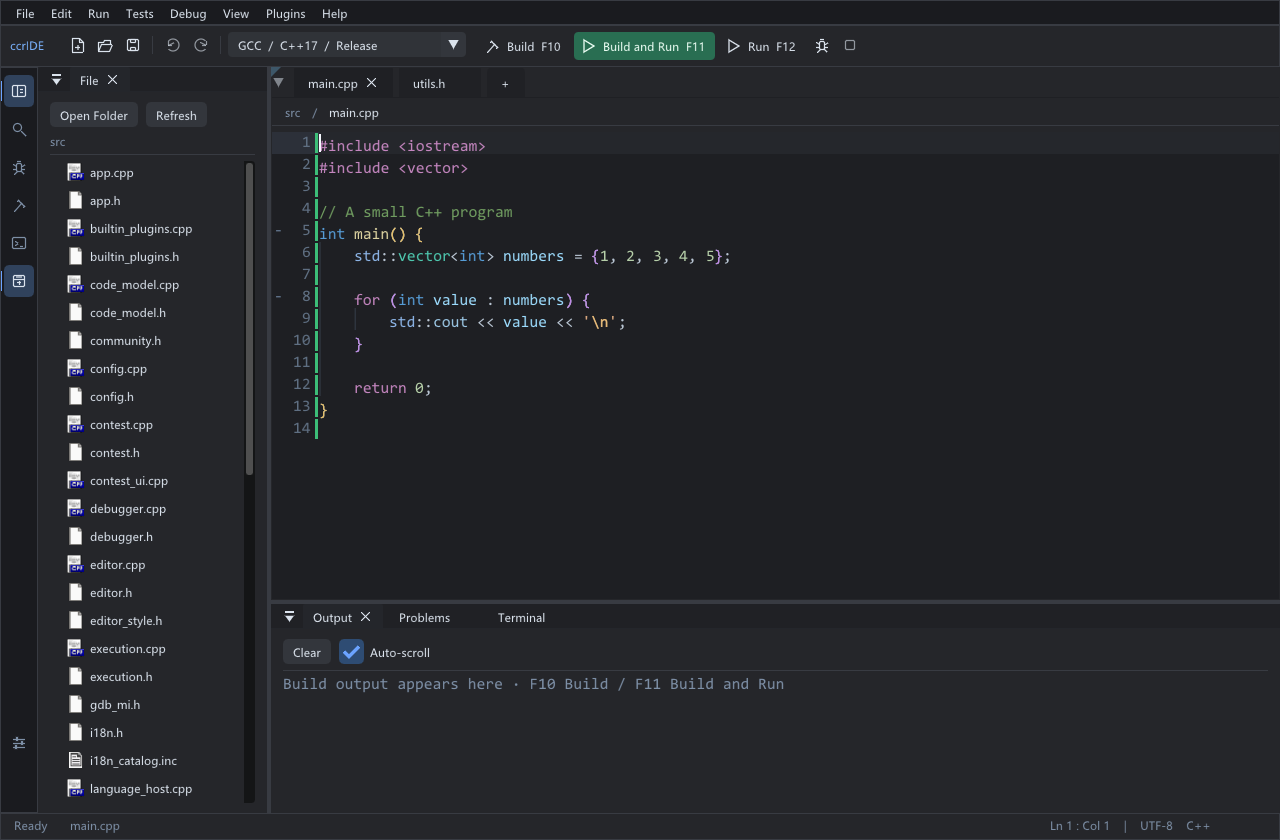
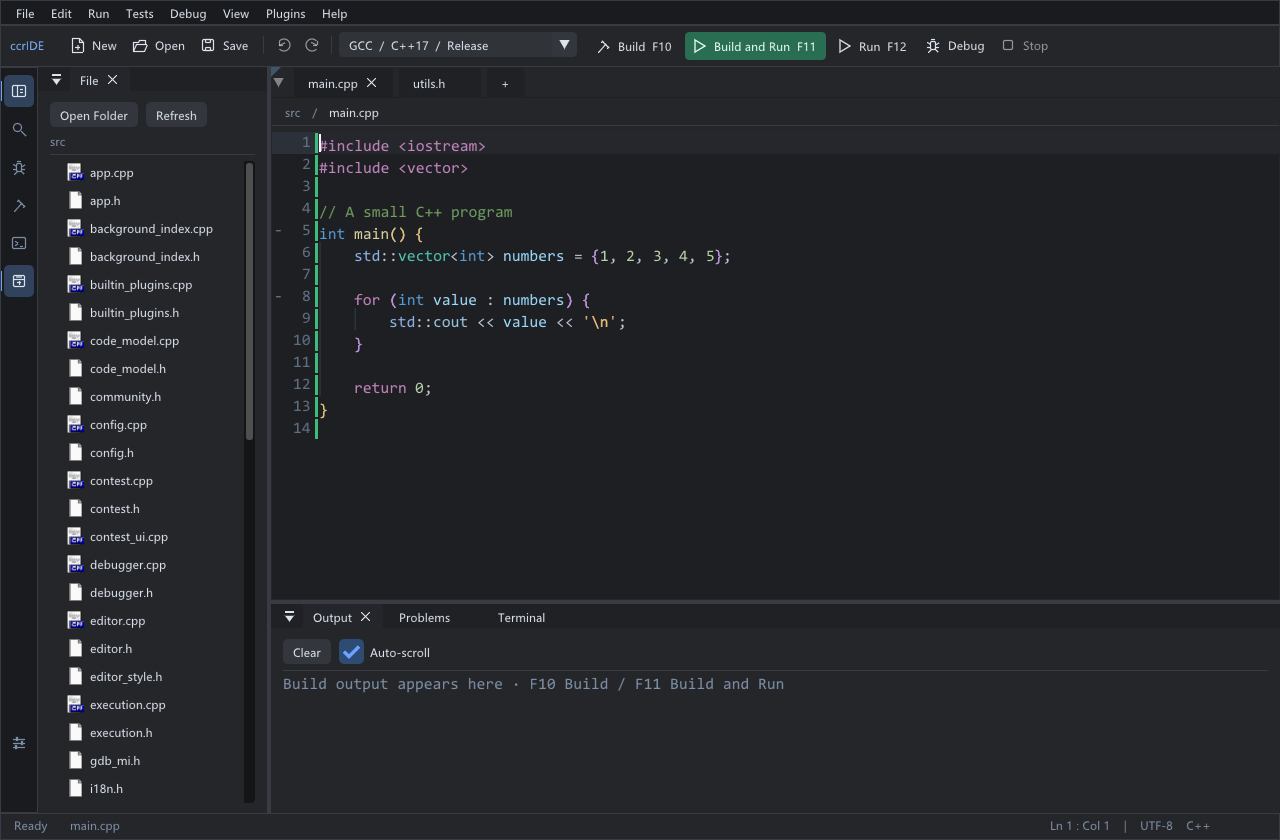
Activate verified v0.3.8 downloads and plugin marketplace
Publish stable download links and the three official plugin catalog entries only after all 11 Release assets are public and their GitHub SHA-256 digests match the locally verified packages. Update the workspace screenshots/slideshow with the real 0.3.8 Chinese and English UI, and preserve the version provenance of older completion/settings examples. Mark the changelog as released.

diff --git a/README.en.md b/README.en.md
@@ -2,18 +2,18 @@
 
 [简体中文](README.md) | **English**
 
-A lightweight C++ IDE for **Windows x64**, focused on fast, single-file and competitive-programming workflows. Built with Dear ImGui, GLFW and OpenGL. Current version: **0.3.7.2**. The original prototype is preserved in `IDE.py`.
+A lightweight C++ IDE for **Windows x64**, focused on fast, single-file and competitive-programming workflows. Built with Dear ImGui, GLFW and OpenGL. Current version: **0.3.8**. The original prototype is preserved in `IDE.py`.
 
-[Download installer](https://github.com/yunyugong/ccrIDE/releases/download/v0.3.7.2/ccrIDE-Setup-v0.3.7.2.exe) · [Download portable bundle](https://github.com/yunyugong/ccrIDE/releases/download/v0.3.7.2/ccrIDE-v0.3.7.2-win64-with-GCC.zip) · [Plugin API](docs/plugin-api.md)
+[Download installer](https://github.com/yunyugong/ccrIDE/releases/download/v0.3.8/ccrIDE-Setup-v0.3.8.exe) · [Download portable bundle](https://github.com/yunyugong/ccrIDE/releases/download/v0.3.8/ccrIDE-v0.3.8-win64-with-GCC.zip) · [Plugin API](docs/plugin-api.md)
 
-The development branch is preparing **v0.3.8** with background search/header models, cancellable downloads and toolbar labels. See [implementation notes](docs/responsiveness-0.3.8.md). Download links below still point to the published stable release.
+**v0.3.8 is available** with background search/header models, cancellable downloads and toolbar labels. See [implementation notes](docs/responsiveness-0.3.8.md).
 
-![ccrIDE v0.3.7.2 English workspace with file tree, code editor and output panel](docs/images/workspace-en.png)
+![ccrIDE v0.3.8 English workspace with file tree, code editor and output panel](docs/images/workspace-en.png)
 
 <details>
 <summary>Compare the Chinese and English interfaces</summary>
 
-This GIF is a slideshow of two actual v0.3.7.2 interface screenshots, rather than a recording of mouse actions. Switching languages preserves docked panel positions.
+This GIF is a slideshow of two actual v0.3.8 interface screenshots, rather than a recording of mouse actions. Switching languages preserves docked panel positions.
 
 ![Chinese and English workspace screenshot comparison](docs/images/interface-languages.gif)
 
@@ -23,8 +23,8 @@ This GIF is a slideshow of two actual v0.3.7.2 interface screenshots, rather tha
 
 Get release packages from [GitHub Releases](https://github.com/yunyugong/ccrIDE/releases).
 
-- `ccrIDE-Setup-v0.3.7.2.exe`: native offline installer with a selectable installation directory.
-- `ccrIDE-v0.3.7.2-win64-with-GCC.zip`: portable bundle; extract the entire folder, then run `ccrIDE-v0.3.7.2.exe`.
+- `ccrIDE-Setup-v0.3.8.exe`: native offline installer with a selectable installation directory.
+- `ccrIDE-v0.3.8-win64-with-GCC.zip`: portable bundle; extract the entire folder, then run `ccrIDE-v0.3.8.exe`.
 - Both include GCC 11.5 and GDB. Keep the whole directory together; settings are in `data/`, plugins in `plugins/`, and the compiler in `toolchain/mingw64/`.
 - Install into a **new, writable folder** when upgrading to preserve your previous version/settings. OpenGL 3.3 is required. English UI works without Chinese fonts; displaying Chinese source text still needs a suitable font.
 - Matching `.sha256` files accompany the downloads. GitHub's automatically generated source archives do not include the compiler or a prebuilt application.
@@ -60,9 +60,9 @@ Install ZIPs through **Plugins > Install Local Plugin**, or refresh the online P
 
 | Package | Purpose |
 | --- | --- |
-| `ai-assistant-v1.2.1.zip` | AI Assistant using your OpenAI-compatible endpoint; configure your own endpoint/key/model. |
-| `completion-docs-v1.0.1.zip` | Full completion comments, declaration sources, multiple-header selection and clickable links. |
-| `clangd-v1.2.1.zip` | Compiler-based C++ completion, diagnostics, definition and rename; offline package includes clangd 23.1.0. |
+| `ai-assistant-v1.2.2.zip` | AI Assistant using your OpenAI-compatible endpoint; configure your own endpoint/key/model. |
+| `completion-docs-v1.0.2.zip` | Full completion comments, declaration sources, multiple-header selection and clickable links. |
+| `clangd-v1.2.2.zip` | Compiler-based C++ completion, diagnostics, definition and rename; offline package includes clangd 23.1.0. |
 
 Updated packages follow the host language. Older compatible plugin binaries still load, but retain their original UI language. Source comments, user code and external tool messages are preserved, rather than machine-translated.
 

diff --git a/CHANGELOG.md b/CHANGELOG.md
@@ -2,9 +2,9 @@
 
 完整发布说明和附件见 [GitHub Releases](https://github.com/yunyugong/ccrIDE/releases)。
 
-## v0.3.8（候选构建 / candidate build）
+## v0.3.8
 
-全局搜索与头文件模型移到后台，新增搜索取消与过期结果丢弃；插件下载使用可取消的独立工作进程；默认构建改为 Release；增加可保存的工具栏文字标签选项。保留轻量补全、现有快捷键和拖动停靠。实现与边界见 [后台工作说明](docs/responsiveness-0.3.8.md)。正式附件以 GitHub Releases 为准。
+全局搜索与头文件模型移到后台，新增搜索取消与过期结果丢弃；插件下载使用可取消的独立工作进程；默认构建改为 Release；增加可保存的工具栏文字标签选项。保留轻量补全、现有快捷键和拖动停靠。实现与边界见 [后台工作说明](docs/responsiveness-0.3.8.md)。正式附件见 [v0.3.8 Release](https://github.com/yunyugong/ccrIDE/releases/tag/v0.3.8)。
 
 Workspace search and header models run in the background. Marketplace downloads use a cancellable managed process. Release becomes the default build configuration, and toolbar text labels are configurable. Existing lightweight completion, shortcuts and draggable docking remain available.
 

diff --git a/docs/images/README.md b/docs/images/README.md
@@ -1,6 +1,6 @@
 # README interface media
 
-These images show the actual OpenGL-rendered v0.3.7.2 UI from the existing Chinese and English UI verification runs. They were added to the README on 2026-11-13. The interface, code and data are demonstration states from the test preview.
+Workspace PNGs and their slideshow show the actual OpenGL-rendered v0.3.8 UI from the Chinese and English verification runs. Completion documentation and preferences examples retain the v0.3.7.2 verification images. Updated on 2026-11-13 after the v0.3.8 Release assets were verified. The interface, code and data are demonstration states from the test preview.
 
 - `workspace-zh.png` and `workspace-en.png`: main workspace, file tree, editor and bottom output panel.
 - `completion-zh.png`: lightweight completion with the optional documentation plugin enabled; the comment and declaration file come from the installed GCC headers.
